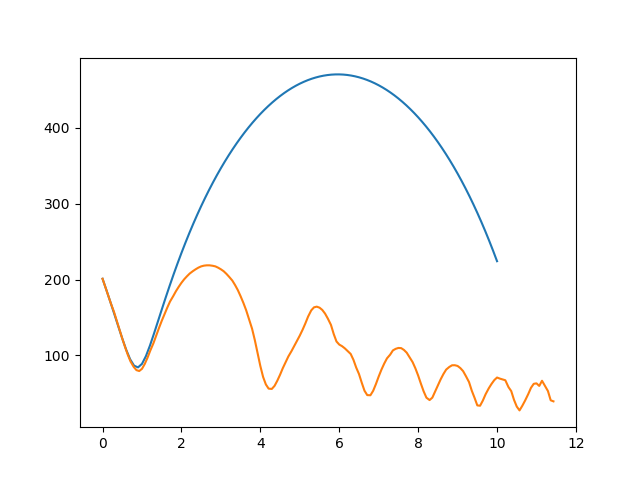
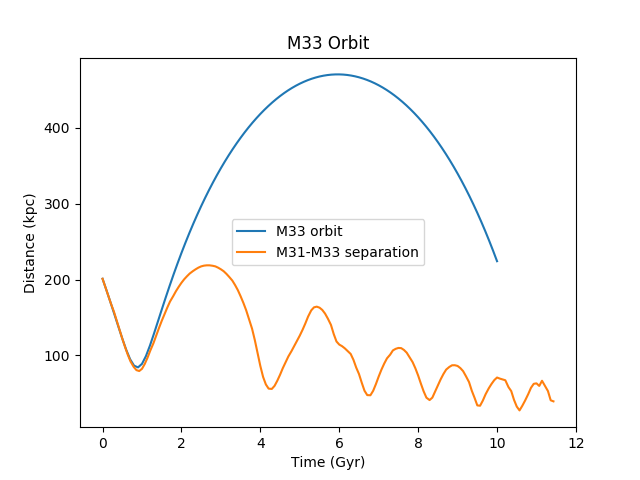
Homework 7 complete

diff --git a/HW7/AnalyticOrbit.py b/HW7/AnalyticOrbit.py
@@ -1,3 +1,11 @@
+"""
+ASTR 400B Homework 7 
+M33 analytic orbit
+Rafia Bushra
+Date Submitted: 5/2/18
+"""
+
+
 import numpy as np
 import astropy.units as u
 import pdb
@@ -13,6 +21,7 @@ class M33AnalyticOrbit:
     
     def __init__(self, filename):
         
+        #assigning the filename as an object property
         self.fname = filename
         
         #Initializing COM position and COM velocity vectore of M33 with respect to M31 from HW4 results
@@ -38,11 +47,22 @@ class M33AnalyticOrbit:
     def HernquistAccel(self, M, ra, x, y, z, i):
         """
         A function that calculates bulge or halo acceleration.
+        
+        PARAMETERS
+        ----------
+        M       : Halo mass or bulge mass. Type = float
+        ra      : Halo radius or bulge radius. Type = float
+        x, y, z : COM coordinates, Type = float
+        i       : Component of acceleration. Could be x, y or z. Type = str
+        
+        RETURNS
+        -------
+        ai : i component of acceleration. Type = float
         """
 
         r  = np.sqrt(x**2 + y**2 + z**2)
-        a  = -(self.G*M)/(r*((ra+r)**2))
-        ai = (a*x) if i=='x' else (a*y) if i=='y' else (a*z)
+        a  = -(self.G*M)/(r*((ra+r)**2))  #Acceleration derived from a Herquist profile
+        ai = (a*x) if i=='x' else (a*y) if i=='y' else (a*z) #choosing the desired component
 
         return ai
 
@@ -50,42 +70,72 @@ class M33AnalyticOrbit:
     def MiyamotoNagaiAccel(self, M, rd, x, y, z, i):
         """
         A function that calculates disk acceleration
+        
+        PARAMETERS
+        ----------
+        M       : Disk mass. Type = float
+        rd      : Disk radius. Type = float
+        x, y, z : COM coordinates, Type = float
+        i       : Component of acceleration. Could be x, y or z. Type = str
+        
+        RETURNS
+        -------
+        ai : i component of acceleration. Type = float
         """
-        zd = self.rd/5
-        R  = np.sqrt(x**2 + y**2)
-        B  = rd + np.sqrt(z**2 + zd**2)
-        a  = -(self.G*M)/((R**2 + B**2)**1.5)
+        
+        zd = self.rd/5      #Disk scale height
+        R  = np.sqrt(x**2 + y**2)        
+        B  = rd + np.sqrt(z**2 + zd**2)  
+        a  = -(self.G*M)/((R**2 + B**2)**1.5)   #acceleration derived using Miyamoto-Nagai 1975 profile
         if i=='x':
             ai = a*x
         elif i=='y':
             ai = a*y
         else:
-            ai = a*(B/np.sqrt(z**2 + zd**2))*z
+            ai = a*(B/np.sqrt(z**2 + zd**2))*z  #z-component slightly different from x & y components
 
         return ai
 
 
     def M31Accel(self, x, y, z, i):
+        """
+        A function that calculates total acceleration for a given component
+        
+        PARAMETERS
+        ----------
+        x, y, z : COM coordinates, Type = float
+        i       : Component of acceleration. Could be x, y or z. Type = str
+        
+        RETURNS
+        -------
+        a_tot : i component of total acceleration. Type = float
+        """
 
-        a_halo  = self.HernquistAccel(self.Mhalo, self.rhalo, x, y, z, i)
-        a_bulge = self.HernquistAccel(self.Mbulge, self.rbulge, x, y, z, i)
-        a_disk  = self.MiyamotoNagaiAccel(self.Mdisk, self.rd, x, y, z, i)
+        a_halo  = self.HernquistAccel(self.Mhalo, self.rhalo, x, y, z, i)  #i-th component of halo acceleration
+        a_bulge = self.HernquistAccel(self.Mbulge, self.rbulge, x, y, z, i)  #i-th component of bulge acceleration
+        a_disk  = self.MiyamotoNagaiAccel(self.Mdisk, self.rd, x, y, z, i)  #i-th component of disk acceleration
 
-        a_tot = a_halo + a_bulge + a_disk
+        a_tot = a_halo + a_bulge + a_disk  #i component of total acceleration
 
         return a_tot
 
 
     def LeapFrog(self, dt, x, y, z, vx, vy, vz):
-
+        """
+        An integration scheme. Calculates x, y, z, vx, vy, vz after a small time interval dt. Needs to be looped over dt.
+        """
+        
+        #Calculating position coordinates at middle of time step
         x_mid = x + (vx*dt*0.5)
         y_mid = y + (vy*dt*0.5)
         z_mid = z + (vz*dt*0.5)
-
+        
+        #Calcuating COM velocity after time dt (full step)
         vx_full = vx + self.M31Accel(x_mid, y_mid, z_mid, 'x')*dt
         vy_full = vy + self.M31Accel(x_mid, y_mid, z_mid, 'y')*dt
         vz_full = vz + self.M31Accel(x_mid, y_mid, z_mid, 'z')*dt
 
+        #Calcuating COM position after time dt (full step)
         x_full = x + 0.5*(vx + vx_full)*dt
         y_full = y + 0.5*(vy + vy_full)*dt
         z_full = z + 0.5*(vz + vz_full)*dt
@@ -93,21 +143,29 @@ class M33AnalyticOrbit:
         return x_full, y_full, z_full, vx_full, vy_full, vz_full
 
     def OrbitIntegrator(self, t0, dt, tmax):
-
+        """
+        A function that loops over LeapFrog function to calculate position and velocity coordinates at regular time intervals dt until a desired time tmax. Parameters along with time are stored in an array and saved in current working directory. 
+        """
+        
+        #initializing an array to store the orbital parameters at each time point
         OrbitParam = np.zeros([int(np.around(tmax/dt))+1, 7])
 
+        #Initializing parameters
         x, y, z = self.x, self.y, self.z
         vx, vy, vz = self.vx, self.vy, self.vz
         t = t0
 
+        #looping over time
         while t<=tmax:
-
+            
+            #row index
             row = int(np.around(t/dt))
-
+            
+            #filling each row with current parameters
             OrbitParam[row] = t, x, y, z, vx, vy, vz
 
+            #updating parameters
             x, y, z, vx, vy, vz = self.LeapFrog(dt, x, y, z, vx, vy, vz)
-
             t = t + dt
 
         np.savetxt(self.fname, OrbitParam, header = 't x y z vx vy vz', comments = '#', fmt = ['%.2f', '%.2f', '%.2f', '%.2f', '%.2f', '%.2f', '%.2f'])
@@ -116,35 +174,63 @@ class M33AnalyticOrbit:
 
     
 def mag(x, y, z = 0):
+    """
+    Calculates magnitude of 2D or 3D vectors
+    """
     return np.sqrt(x**2 + y**2 + z**2)
-        
+
+#Creating the object instance
 M33Orb = M33AnalyticOrbit('M33_orbit.txt')
-M33Orb.OrbitIntegrator(0, 0.1, 10.0)
 
+#uncomment next line if you want to regenerate the orbit file
+#M33Orb.OrbitIntegrator(0, 0.1, 10.0)
 
+#Reading in orbit files
 M33 = ascii.read(M33Orb.fname)
 M31_hw6 = ascii.read('Orbit_M31.txt')
 M33_hw6 = ascii.read('Orbit_M33.txt')
 
+
+#Analytic orbital position and velocity of M33
 M33_pos = mag(M33['x'], M33['y'], M33['z'])
 M33_vel = mag(M33['vx'], M33['vy'], M33['vz'])
 
+#M31-M33 relative position and velocity
 relative_pos = mag(M31_hw6['x'] - M33_hw6['x'], 
                    M31_hw6['y'] - M33_hw6['y'], 
                    M31_hw6['z'] - M33_hw6['z'])
-
 relative_vel = mag(M31_hw6['vx'] - M33_hw6['vx'], 
                    M31_hw6['vy'] - M33_hw6['vy'], 
                    M31_hw6['vz'] - M33_hw6['vz'])
 
-
-plt.plot(M33['t'], M33_pos)
-plt.plot(M31_hw6['t'], relative_pos)
+#M33 orbit plot
+plt.plot(M33['t'], M33_pos, label = 'M33 orbit')
+plt.plot(M31_hw6['t'], relative_pos, label = 'M31-M33 separation')
+plt.xlabel('Time (Gyr)')
+plt.ylabel('Distance (kpc)')
+plt.title('M33 Orbit')
+plt.legend(loc = 'best')
 plt.savefig('Orbital_Position.png')
 plt.cla()
 
-plt.plot(M33['t'], M33_vel)
-plt.plot(M31_hw6['t'], relative_vel)
+#M33 velocity plot
+plt.plot(M33['t'], M33_vel, label = 'M33 Orbital Velocity')
+plt.plot(M31_hw6['t'], relative_vel, label = 'M31-M33 Relative Velocity')
+plt.xlabel('Time (Gyr)')
+plt.ylabel('Velocity (km/s)')
+plt.title('M33 Velocity')
+plt.legend(loc = 'best')
 plt.savefig('Orbital_Velocity.png')
 
-seperation = np.sqrt(M31_hw6['x'])
+
+#printing answers to terminal
+print('')
+print('Answer 2:')
+print('The plots are consistent only until the first close encounter.')
+print('')
+print('Answer 3:')
+print('The integrator was made assuming M33 is a point mass, however it\'s mass distribution will have an impact on the integrated orbit')
+print('')
+print('Answer 4:')
+print('We could treat MW and M31 like a single system by finding resultant position and velocity vectors. Then instead of calculation M33\'s orbit and velocity with respect to M31, we could calculate it with respect to the MW-M31 system.')
+print('')
